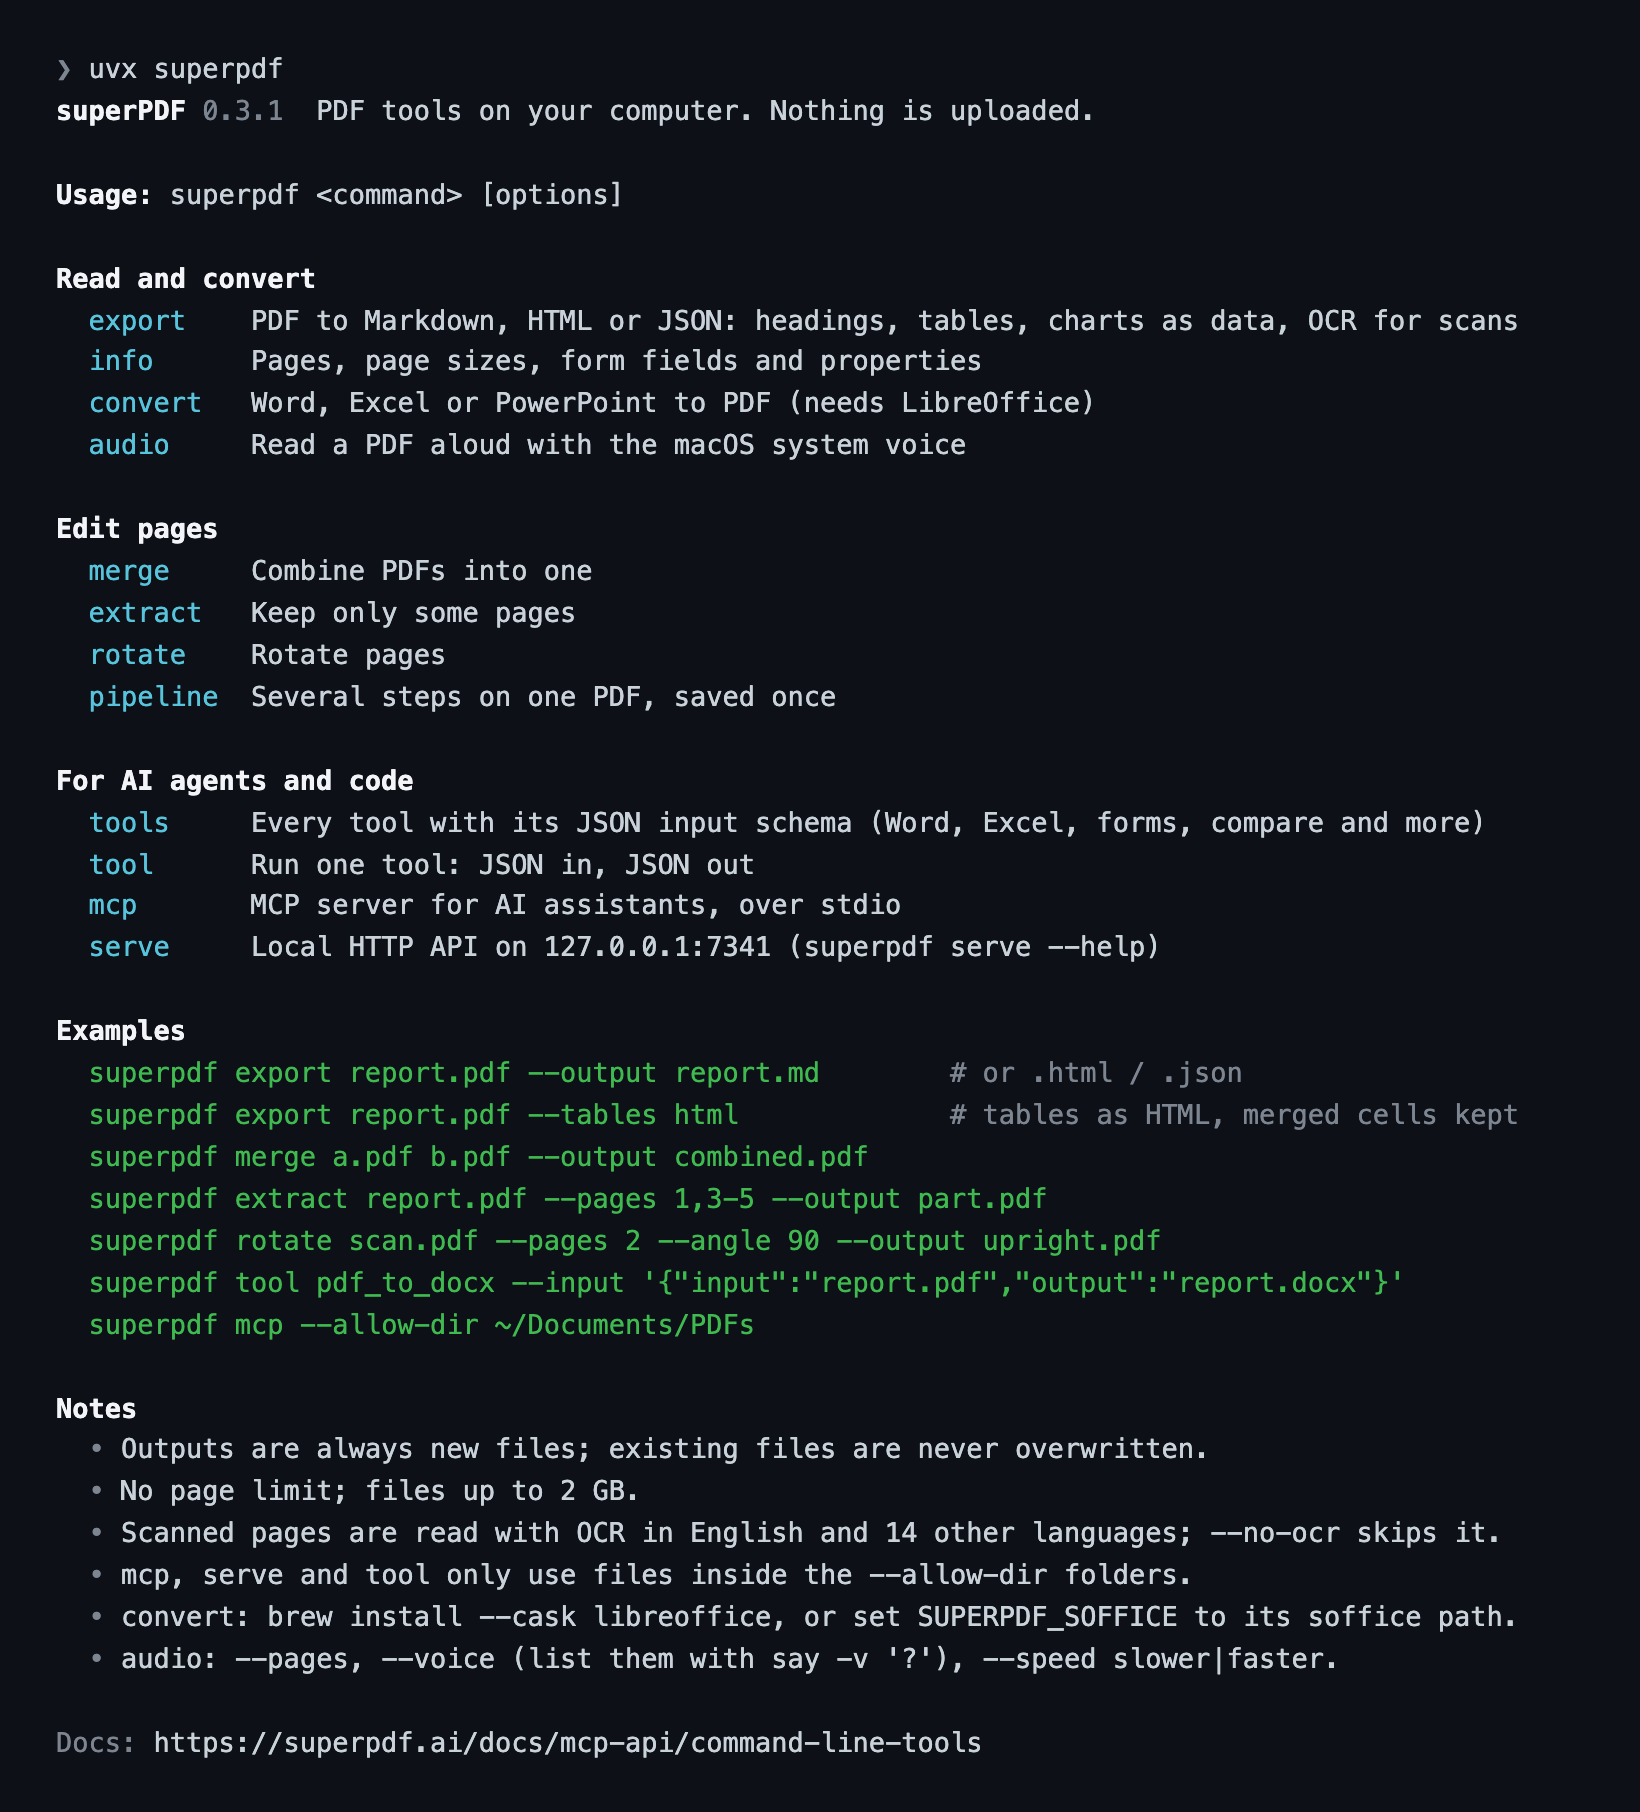
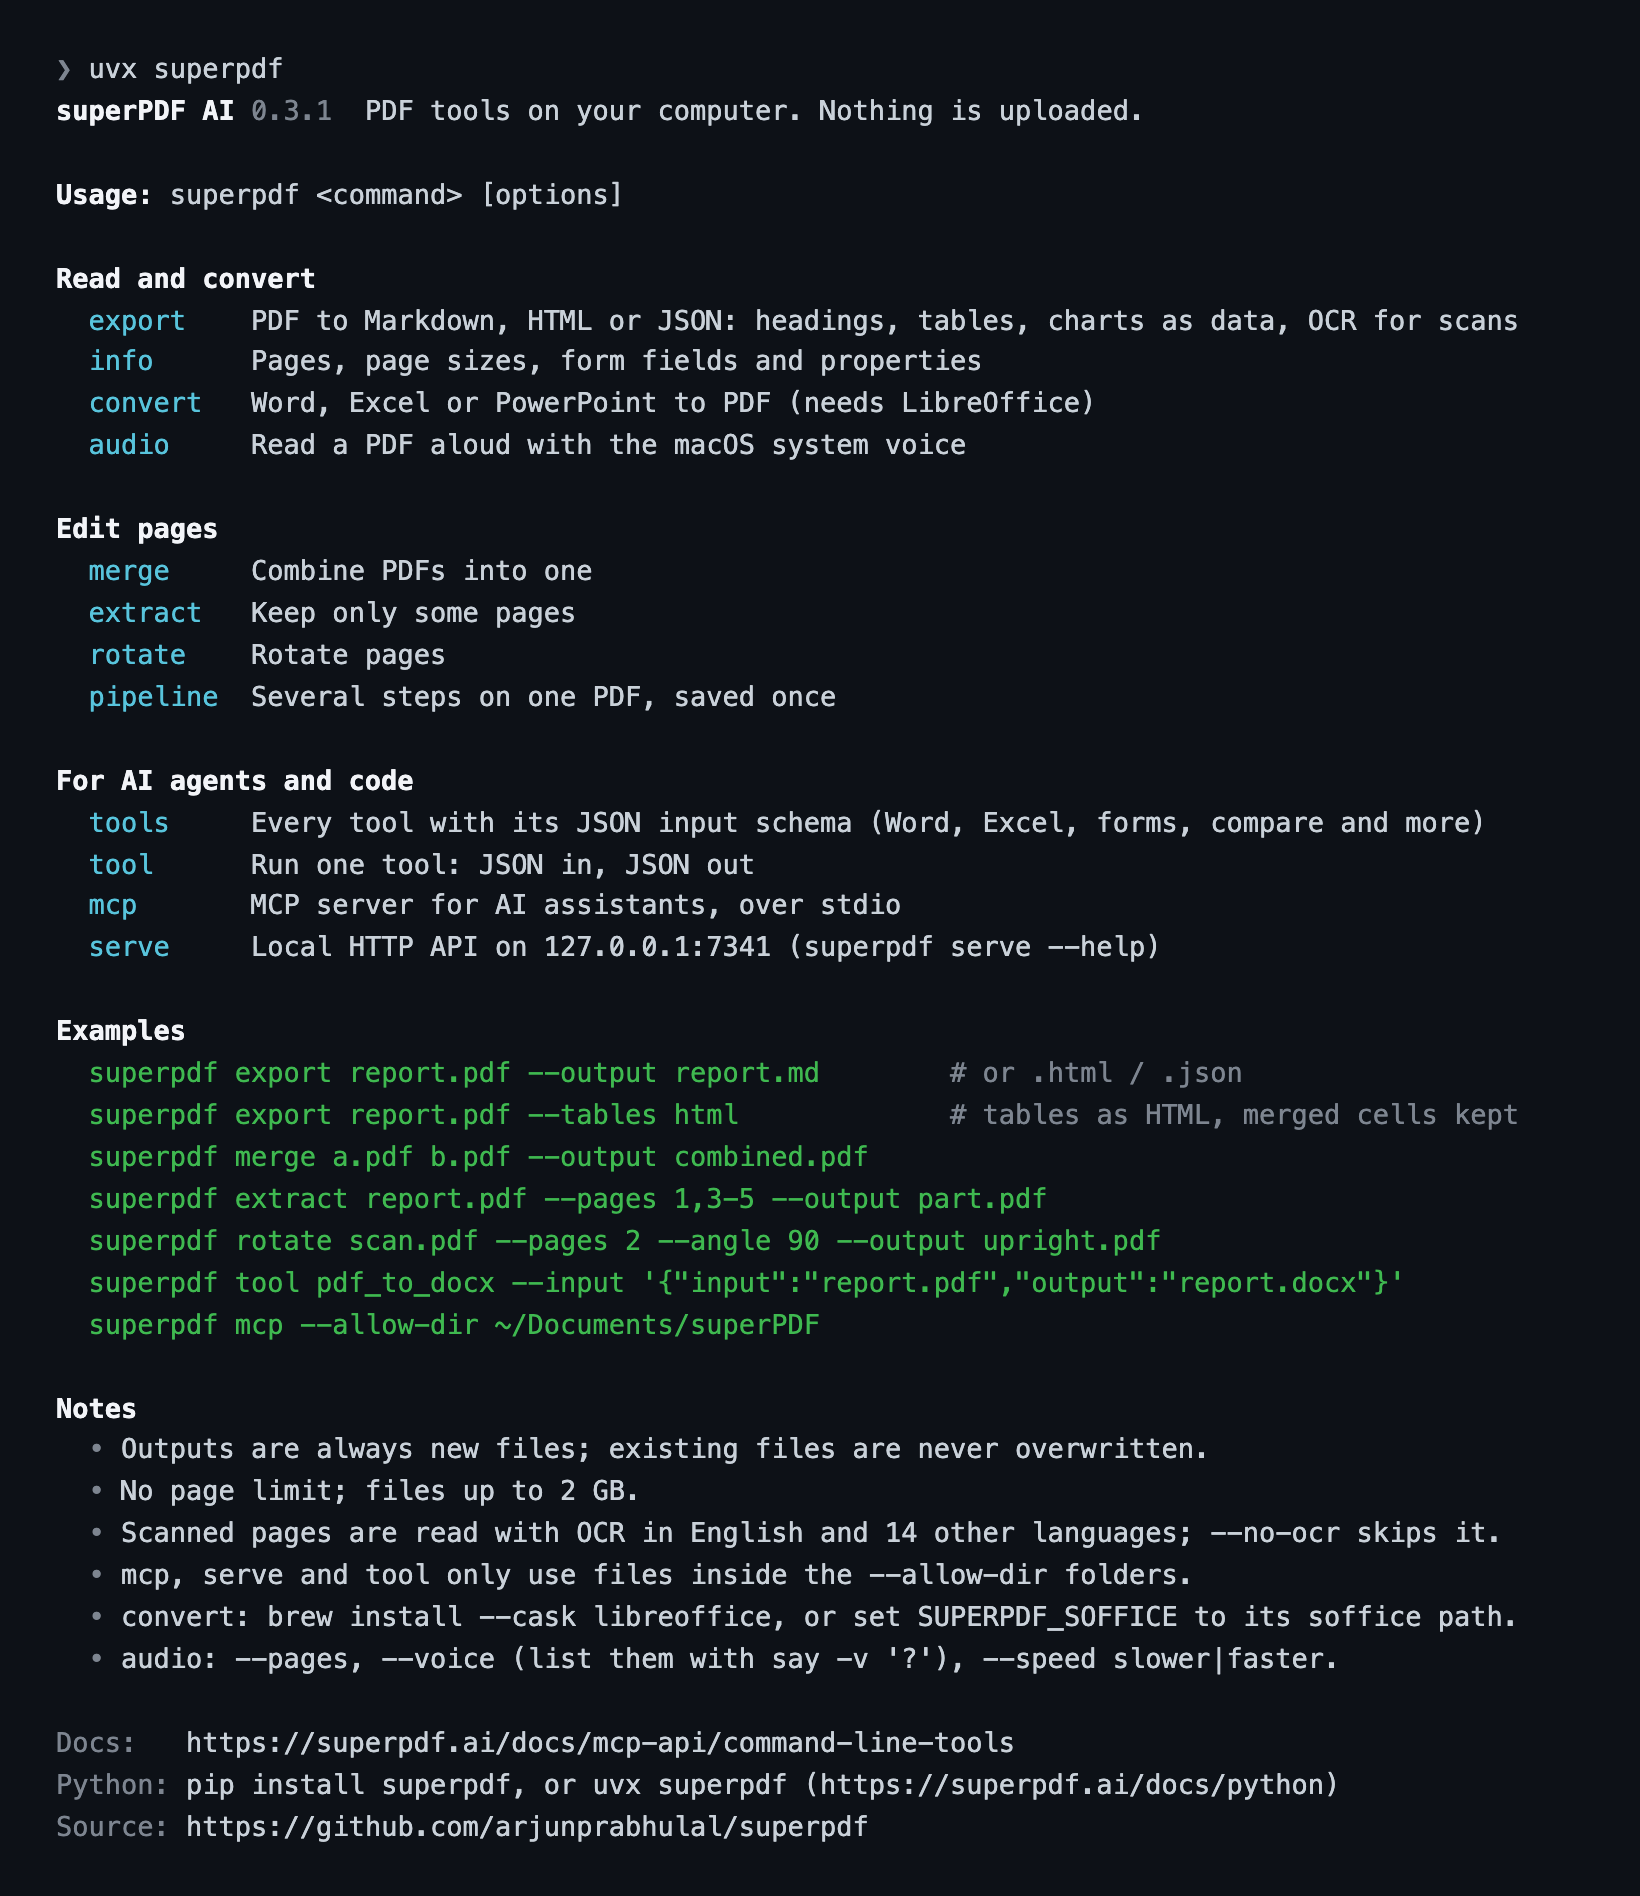
chore: harden CI and make naming and links consistent before 0.3.1 (#10)
## Why

A security review of this public repo and of everything published from
it found **no leaks**. That covered the full git history, every npm
version, every PyPI file, all GitHub PRs, comments, issues and releases,
and the live site's bundles. This PR closes the remaining hardening
gaps.

It also fixes the naming and link drift found by a consistency audit,
before 0.3.1 is tagged.

## Security

- **CodeQL code scanning** for JavaScript/TypeScript, Python and GitHub
Actions: on pushes, on PRs and weekly.
- **SHA pins:** every Action is pinned to a commit SHA, each from a
release at least two weeks old. The PyPI publish step previously used
the moving `release/v1` branch.
- **No stored token:** `actions/checkout` sets `persist-credentials:
false` in all eight checkouts. Two didn't before.
- **Dependabot** now watches the Python package (uv) too.

## Consistency

- **CLI help:** headed **superPDF AI**, uses the README's example folder
(`~/Documents/superPDF`), and ends with docs, Python and source links.
The README screenshot is regenerated.
- **README:** adds a table of every way to use superPDF AI (CLI, MCP,
API, Python SDK, uvx/pipx, LangChain and LlamaIndex), each with its
docs. The privacy sentence now says what an MCP assistant's model sees.
- **Python README:** titled "superPDF AI for Python". Its LICENSE links
are absolute, so they work on PyPI.
- **CONTRIBUTING:** uses `X.Y.Z` placeholders, not 0.2.0.

## Tested locally

- `npm test`: 15 of 15 pass.
[…]

diff --git a/bin/superpdf.js b/bin/superpdf.js
@@ -11,7 +11,7 @@ const useColor=process.env.FORCE_COLOR?process.env.FORCE_COLOR!=='0':!!process.s
 const paint=code=>text=>useColor?`\x1b[${code}m${text}\x1b[0m`:text;
 const bold=paint('1'),dim=paint('2'),green=paint('32'),cyan=paint('36');
 const section=(title,rows)=>`${bold(title)}\n${rows.map(([name,about])=>`  ${cyan(name.padEnd(10))}${about}`).join('\n')}`;
-const helpText=version=>`${bold('superPDF')} ${dim(version)}  PDF tools on your computer. Nothing is uploaded.
+const helpText=version=>`${bold('superPDF AI')} ${dim(version)}  PDF tools on your computer. Nothing is uploaded.
 
 ${bold('Usage:')} superpdf <command> [options]
 
@@ -43,7 +43,7 @@ ${bold('Examples')}
   ${green('superpdf extract report.pdf --pages 1,3-5 --output part.pdf')}
   ${green('superpdf rotate scan.pdf --pages 2 --angle 90 --output upright.pdf')}
   ${green('superpdf tool pdf_to_docx --input \'{"input":"report.pdf","output":"report.docx"}\'')}
-  ${green('superpdf mcp --allow-dir ~/Documents/PDFs')}
+  ${green('superpdf mcp --allow-dir ~/Documents/superPDF')}
 
 ${bold('Notes')}
   ${dim('•')} Outputs are always new files; existing files are never overwritten.
@@ -53,7 +53,9 @@ ${bold('Notes')}
   ${dim('•')} convert: brew install --cask libreoffice, or set SUPERPDF_SOFFICE to its soffice path.
   ${dim('•')} audio: --pages, --voice (list them with say -v '?'), --speed slower|faster.
 
-${dim('Docs:')} https://superpdf.ai/docs/mcp-api/command-line-tools
+${dim('Docs:')}   https://superpdf.ai/docs/mcp-api/command-line-tools
+${dim('Python:')} pip install superpdf, or uvx superpdf (https://superpdf.ai/docs/python)
+${dim('Source:')} https://github.com/arjunprabhulal/superpdf
 `;
 /**
  * Markdown as toMarkdown (lib/pdf-structure.js) writes it, with each table as the HTML export's table (colspans and

diff --git a/python/src/superpdf/__init__.py b/python/src/superpdf/__init__.py
@@ -1,4 +1,4 @@
-"""superPDF for Python: read, convert, edit and compare PDFs on your computer.
+"""superPDF AI for Python: read, convert, edit and compare PDFs on your computer.
 
 A typed wrapper around the superPDF command-line tool (npm package @superpdf/cli): `export` gives the same results
 as `superpdf export`, and every other function runs one of the tools the MCP server and the local API run.

diff --git a/README.md b/README.md
@@ -7,9 +7,9 @@
   </picture>
 </h1>
 
-### superPDF AI: a PDF reader, CLI and MCP server that run on your computer.
+### superPDF AI: PDF tools that run on your computer, from the command line, Python, AI assistants (MCP) or a local API.
 
-**Tables, charts, headings and scans to Markdown, HTML or JSON, read by rules, not a language model; scans go through Tesseract OCR. Nothing is uploaded.**
+**Tables, charts, headings and scans to Markdown, HTML or JSON; Word, Excel and PowerPoint; forms, merging and comparing. The reader works by rules, not a language model; scans go through Tesseract OCR. Nothing is uploaded.**
 
 [![CI](https://img.shields.io/github/actions/workflow/status/arjunprabhulal/superpdf/ci.yml?branch=main&style=flat-square&label=CI)](https://github.com/arjunprabhulal/superpdf/actions/workflows/ci.yml) [![npm](https://img.shields.io/npm/v/@superpdf/cli?style=flat-square&color=4338ca)](https://www.npmjs.com/package/@superpdf/cli) [![License: Apache-2.0](https://img.shields.io/badge/license-Apache--2.0-555555?style=flat-square)](LICENSE) [![Node.js 22+](https://img.shields.io/badge/Node.js-22%2B-339933?style=flat-square&logo=nodedotjs&logoColor=white)](https://nodejs.org) [![MCP server](https://img.shields.io/badge/MCP-server-4338ca?style=flat-square)](#use-it-from-your-ai-assistant-mcp)
 
@@ -31,9 +31,19 @@ superPDF reads a PDF the way it was made: from the text, fonts and drawings insi
 Markdown, HTML or JSON, with headings at the right level, tables with their rows and columns, and charts turned back
 into the numbers they were drawn from. Scanned pages are read with OCR in 15 languages.
 
-It runs on your computer as a command, as an MCP server for AI assistants such as Claude Code, Cursor and Codex, or as a
-local REST API for your own scripts. Files never leave the folders you allow. It is the same reader that powers
-[superpdf.ai](https://superpdf.ai) in the browser.
+It runs on your computer as a command, a Python package, an MCP server for AI assistants such as Claude Code, Cursor
+and Codex, or a local REST API for your own scripts. It only opens files in the folders you allow and never uploads them
+(through MCP, the text your assistant reads goes to its model, as with any file you show it). It is the same reader
+that powers [superpdf.ai](https://superpdf.ai) in the browser.
+
+| Use it as | Install or run | Docs |
+|---|---|---|
+| Command line | `npm install -g @superpdf/cli`, or `npx @superpdf/cli …` without installing | [CLI](https://superpdf.ai/docs/mcp-api/command-line-tools) |
+| MCP server for AI assistants | `superpdf mcp --allow-dir ~/Documents/superPDF` | [MCP setup](https://superpdf.ai/docs/mcp-api/mcp-tool-access) |
+| Local REST API (OpenAPI 3.1) | `superpdf serve --allow-dir ~/Documents/superPDF` | [API](https://superpdf.ai/docs/api) |
+| Python SDK | `pip install superpdf` or `uv add superpdf` | [Python](https://superpdf.ai/docs/python) |
+| Python, without installing | `uvx superpdf …` or `pipx run superpdf …` | [Python](https://superpdf.ai/docs/python#command) |
+| LangChain and LlamaIndex | `pip install "superpdf[langchain]"` or `"superpdf[llama-index]"` | [Loaders](https://superpdf.ai/docs/python/langchain-llamaindex) |
 
 ## How it compares
 

diff --git a/CONTRIBUTING.md b/CONTRIBUTING.md
@@ -46,11 +46,11 @@ Maintainers publish from GitHub: publishing a release runs [`release.yml`](.gith
 the tests, checks that the tag matches `package.json`, and stages the package on npm with provenance through npm
 trusted publishing. No npm token is stored in the repository.
 
-1. Bump the version without creating a tag: `npm version 0.2.0 --no-git-tag-version` (use the next patch, minor or
+1. Bump the version without creating a tag: `npm version X.Y.Z --no-git-tag-version` (use the next patch, minor or
    major version).
 2. Add a section for the new version at the top of [CHANGELOG.md](CHANGELOG.md).
-3. Commit both files as `chore(release): 0.2.0`, push to `main` and wait for CI to pass.
-4. Tag and push the tag: `git tag -a v0.2.0 -m "superPDF AI 0.2.0"`, then `git push origin v0.2.0`.
+3. Commit both files as `chore(release): X.Y.Z`, push to `main` and wait for CI to pass.
+4. Tag and push the tag: `git tag -a vX.Y.Z -m "superPDF AI X.Y.Z"`, then `git push origin vX.Y.Z`.
 5. Create a GitHub release from that tag, with the changelog section as the notes, and publish it. Mark it as a
    pre-release to publish under the `next` dist-tag instead of `latest`.
 6. When the Release workflow has finished, approve the staged version on npmjs.com (Staged Packages tab), or with

diff --git a/python/README.md b/python/README.md
@@ -1,6 +1,6 @@
-# superpdf (Python)
+# superPDF AI for Python (`superpdf`)
 
-[![PyPI](https://img.shields.io/pypi/v/superpdf?style=flat-square&color=4338ca)](https://pypi.org/project/superpdf/) [![Python](https://img.shields.io/pypi/pyversions/superpdf?style=flat-square)](https://pypi.org/project/superpdf/) [![License: Apache-2.0](https://img.shields.io/badge/license-Apache--2.0-555555?style=flat-square)](LICENSE)
+[![PyPI](https://img.shields.io/pypi/v/superpdf?style=flat-square&color=4338ca)](https://pypi.org/project/superpdf/) [![Python](https://img.shields.io/pypi/pyversions/superpdf?style=flat-square)](https://pypi.org/project/superpdf/) [![License: Apache-2.0](https://img.shields.io/badge/license-Apache--2.0-555555?style=flat-square)](https://github.com/arjunprabhulal/superpdf/blob/main/LICENSE)
 
 **[superpdf.ai](https://superpdf.ai) · [Python docs](https://superpdf.ai/docs/python) · [GitHub](https://github.com/arjunprabhulal/superpdf) · [Changelog](https://github.com/arjunprabhulal/superpdf/blob/main/python/CHANGELOG.md)**
 
@@ -177,4 +177,4 @@ The reader is `@superpdf/cli` at the version this package is tested with, instal
 
 ## License
 
-[Apache-2.0](LICENSE).
+[Apache-2.0](https://github.com/arjunprabhulal/superpdf/blob/main/LICENSE).

diff --git a/CHANGELOG.md b/CHANGELOG.md
@@ -5,6 +5,10 @@
 - `superpdf help` is reorganised: commands grouped under Read and convert, Edit pages, and For AI agents and code,
   with aligned descriptions, examples and notes. Colour on a terminal only, off with `NO_COLOR` (on with `FORCE_COLOR`).
 - The help no longer says "all 18 tools"; a test keeps any tool count out of it.
+- The help is headed superPDF AI and ends with links to the docs, the Python package and the source.
+- Security: CodeQL code scanning; every GitHub Action pinned to a commit SHA; checkouts don't keep the token;
+  Dependabot also watches the Python package.
+- npm keywords; the README lists every way to use superPDF AI (CLI, MCP, API, Python, uvx) with its docs.
 
 ## 0.3.0
 
